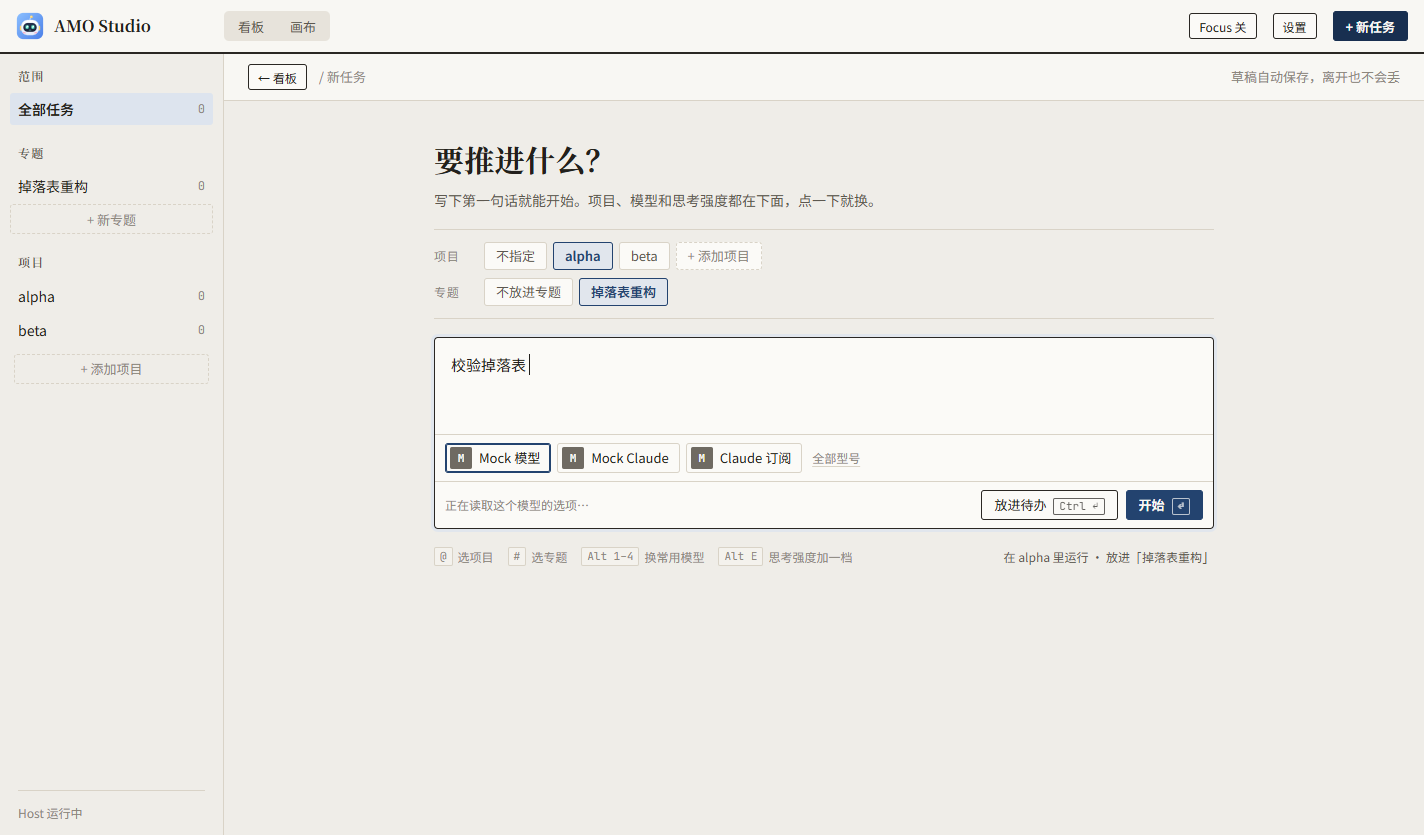
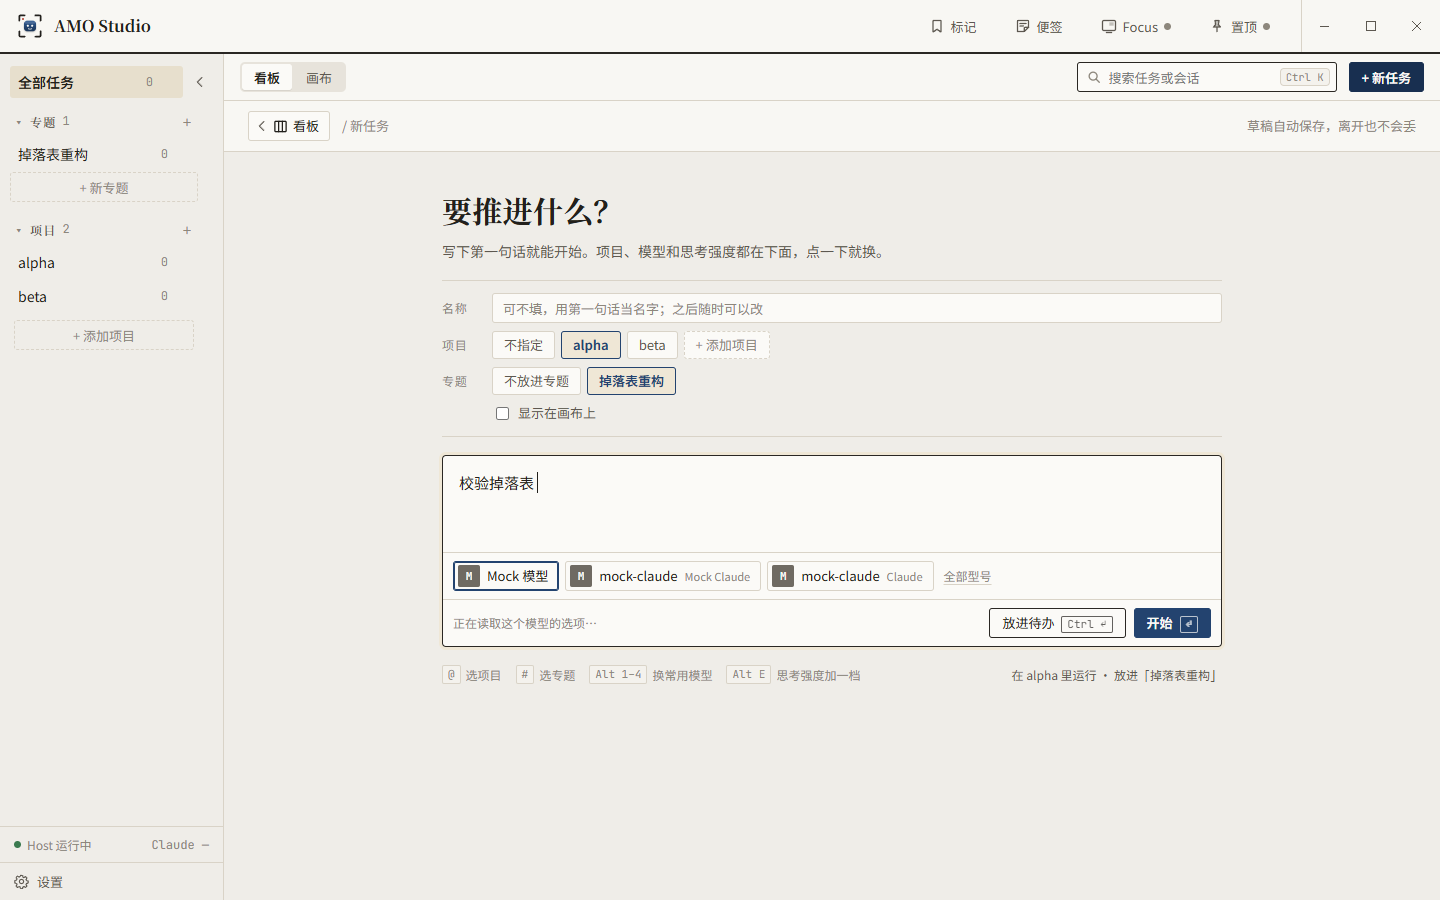
feat(studio): 快速选择 — choose the model tiles in settings; tiles name the default model; faint dividers between quota accounts

diff --git a/studio/packages/ui/src/settings/QuickModelsSection.tsx b/studio/packages/ui/src/settings/QuickModelsSection.tsx
@@ -1,0 +1,122 @@
+import { useEffect, useState } from "react";
+import { MAX_QUICK_MODELS, type ModelProfile, type QuickModel, type StudioSettings } from "@amo-studio/protocol";
+import { call, HostApiError, type HostLink } from "../host/client.js";
+import { modelName, useChoicesFor } from "../lib/choices.js";
+import { pickable } from "../lib/profiles.js";
+import { Mark } from "../chat/pickers.js";
+
+// 设置 → 模型 → 快速选择 (2026-10-15): the model tiles of the new-task page, Quick Start and the new-session form —
+// which ones, in which order (Alt 1–6). Without a choice the row shows the models used last.
+
+export function QuickModelsSection({ link, settings, profiles }: { link: HostLink; settings: StudioSettings | null; profiles: readonly ModelProfile[] }) {
+  const list = settings?.quickModels ?? [];
+  const visible = pickable(profiles);
+  const [profileId, setProfileId] = useState("");
+  const [model, setModel] = useState("");
+  const [error, setError] = useState<string | null>(null);
+  useEffect(() => {
+    if (!profileId && visible[0]) setProfileId(visible[0].id);
+  }, [profileId, visible]);
+  const choices = useChoicesFor(link, [...new Set([...list.map((q) => q.profileId), ...(profileId ? [profileId] : [])])]);
+  const profile = (id: string) => profiles.find((p) => p.id === id);
+  const nameOf = (q: QuickModel) => {
+    const models = choices.get(q.profileId)?.models;
+    if (q.model) return modelName(models?.find((m) => m.id === q.model)) ?? q.model;
+    const d = modelName(models?.find((m) => m.isDefault));
+    return d ? `默认（${d}）` : "默认";
+  };
+
+  async function save(next: QuickModel[]) {
+    setError(null);
+    try {
+      await call(link, "PUT /api/settings", {}, { quickModels: next });
+    } catch (err) {
+      setError(err instanceof HostApiError ? err.message : String(err));
+    }
+  }
+  const move = (i: number, d: -1 | 1) => {
+    const next = [...list];
+    const [x] = next.splice(i, 1);
+    next.splice(i + d, 0, x!);
+    void save(next);
+  };
+  const add = () => {
+    const q = { profileId, model: model || null };
+    if (list.some((x) => x.profileId === q.profileId && x.model === q.model)) return setError("已经在里面了");
+    void save([...list, q]);
+    setModel("");
+  };
+
+  const models = choices.get(profileId)?.models ?? [];
+  return (
+    <section className="settings-section" aria-label="快速选择">
+      <div className="settings-row">
+        <span className="settings-heading">快速选择</span>
+        <span className="spacer" />
+        {list.length > 0 && (
+          <button type="button" className="btn-ghost small" onClick={() => void save([])} data-testid="quick-reset">
+            改回最近用过的
+          </button>
+        )}
+      </div>
+      <span className="settings-hint">
+        新建任务、快速开始和新会话里那一排模型按这里的顺序显示（Alt 1–{MAX_QUICK_MODELS}），最多 {MAX_QUICK_MODELS} 个。没设置时显示最近用过的。
+      </span>
+      {list.length > 0 && (
+        <ol className="quick-list" data-testid="quick-list">
+          {list.map((q, i) => (
+            <li key={`${q.profileId}/${q.model ?? ""}`} className="quick-row" data-testid="quick-row">
+              <span className="quick-key">Alt {i + 1}</span>
+              <Mark profile={profile(q.profileId)} small />
+              <span className="quick-name">
+                <b>{nameOf(q)}</b>
+                <span className="channel-sub">{profile(q.profileId)?.label ?? q.profileId}</span>
+              </span>
+              <button type="button" className="quick-btn" aria-label="上移" title="上移" disabled={i === 0} onClick={() => move(i, -1)}>
+                ↑
+              </button>
+              <button type="button" className="quick-btn" aria-label="下移" title="下移" disabled={i === list.length - 1} onClick={() => move(i, 1)}>
+                ↓
+              </button>
+              <button type="button" className="quick-btn" aria-label={`移除 ${nameOf(q)}`} title="移除" onClick={() => void save(list.filter((_, j) => j !== i))} data-testid="quick-remove">
+                ✕
+              </button>
+            </li>
+          ))}
+        </ol>
+      )}
+      {list.length < MAX_QUICK_MODELS && (
+        <div className="settings-row">
+          <select className="field" value={profileId} onChange={(e) => (setProfileId(e.target.value), setModel(""))} aria-label="快速选择的渠道" data-testid="quick-profile">
+            {visible.map((p) => (
+              <option key={p.id} value={p.id}>
+                {p.label}
+              </option>
+            ))}
+          </select>
+          <select className="field" value={model} onChange={(e) => setModel(e.target.value)} aria-label="快速选择的型号" data-testid="quick-model">
+            <option value="">默认{(() => {
+              const d = modelName(models.find((m) => m.isDefault));
+              return d ? `（${d}）` : "";
+            })()}</option>
+            {models
+              .filter((m) => !m.isDefault)
+              .map((m) => (
+                <option key={m.id} value={m.id}>
+                  {modelName(m) ?? m.id}
+                </option>
+              ))}
+          </select>
+          <button type="button" className="btn-primary small" disabled={!profileId} onClick={add} data-testid="quick-add">
+            添加
+          </button>
+        </div>
+      )}
+      {error && (
+        <span className="form-error" role="alert">
+          {error}
+        </span>
+      )}
+    </section>
+  );
+}

diff --git a/studio/packages/host/src/features/config/service.ts b/studio/packages/host/src/features/config/service.ts
@@ -1,11 +1,11 @@
 import { existsSync, mkdirSync, statSync } from "node:fs";
 import { resolve } from "node:path";
-import { OPTIONAL_FEATURES, type AccountUsage, type CredentialStatus, type OptionalFeature, type ProfileChoices, type SessionPreset, type Id, type QuotaDisplay, type StudioSettings } from "@amo-studio/protocol";
+import { MAX_QUICK_MODELS, OPTIONAL_FEATURES, type QuickModel, type AccountUsage, type CredentialStatus, type OptionalFeature, type ProfileChoices, type SessionPreset, type Id, type QuotaDisplay, type StudioSettings } from "@amo-studio/protocol";
 import { localClaudeHome, localClaudeSignedIn, readClaudeLogin, writeClaudeLogin } from "../../runtime/claude/claude-login.js";
 import { applyModelPrefs, readModelPrefs, writeModelPrefs } from "../../core/model-prefs.js";
 import { newId } from "../../store/store.js";
 import type { CredentialStore } from "../../runtime/credentials.js";
-import { HostError, sessionOptions, boundedText, PRESETS_KEY, MAX_PRESETS, WRITABLE_CREDENTIALS, DISABLED_FEATURES_KEY, QUOTA_DISPLAY_KEY } from "../../core/shared.js";
+import { HostError, sessionOptions, boundedText, PRESETS_KEY, MAX_PRESETS, WRITABLE_CREDENTIALS, DISABLED_FEATURES_KEY, QUOTA_DISPLAY_KEY, QUICK_MODELS_KEY } from "../../core/shared.js";
 import { Feature } from "../../core/feature.js";
 
 /** Studio settings, 常用预设, model credentials, model choices and subscription usage. */
@@ -22,7 +22,18 @@ export class ConfigFeature extends Feature {
       claudeLocal: { dir, signedIn: localClaudeSignedIn(dir) },
       modelPrefs: readModelPrefs(this.store),
       quotaDisplay: this.quotaDisplay(),
+      quickModels: this.quickModels(),
     };
+  }
+
+  /** 设置 → 模型 → 快速选择, without profiles that are gone. */
+  private quickModels(): QuickModel[] {
+    try {
+      const v = JSON.parse(this.store.getKv(QUICK_MODELS_KEY)?.value ?? "[]") as unknown;
+      return Array.isArray(v) ? (v as QuickModel[]).filter((q) => this.profiles.some((p) => p.id === q.profileId)) : [];
+    } catch {
+      return [];
+    }
   }
 
   /** 设置 → 额度: per profile, whether its quota shows at the bottom of the left column and in Focus. */
@@ -65,7 +76,21 @@ export class ConfigFeature extends Feature {
    * Moves the common space to another folder, replaces the 常用预设 list, turns optional features on or off, sets the
    * scratchpad shortcut (便签) and/or how the Claude subscription signs in (sessions started from then on).
    */
-  updateSettings(input: { commonDir?: unknown; presets?: unknown; disabledFeatures?: unknown; scratchpadShortcut?: unknown; claudeLogin?: unknown; modelPrefs?: unknown; scratchpadSafeNewlines?: unknown; quotaDisplay?: unknown }): StudioSettings {
+  updateSettings(input: { commonDir?: unknown; presets?: unknown; disabledFeatures?: unknown; scratchpadShortcut?: unknown; claudeLogin?: unknown; modelPrefs?: unknown; scratchpadSafeNewlines?: unknown; quotaDisplay?: unknown; quickModels?: unknown }): StudioSettings {
+    if (input.quickModels !== undefined) {
+      const list = input.quickModels;
+      if (!Array.isArray(list) || list.length > MAX_QUICK_MODELS) throw new HostError("bad_request", `quickModels must be a list of at most ${MAX_QUICK_MODELS}`);
+      const out: QuickModel[] = [];
+      for (const q of list as unknown[]) {
+        const o = q && typeof q === "object" ? (q as Record<string, unknown>) : {};
+        const profileId = typeof o.profileId === "string" ? o.profileId : "";
+        if (!this.profiles.some((p) => p.id === profileId)) throw new HostError("bad_request", `unknown profile ${profileId}`);
+        const model = o.model === null || o.model === undefined || o.model === "" ? null : typeof o.model === "string" && o.model.length <= 100 ? o.model : undefined;
+        if (model === undefined) throw new HostError("bad_request", "quickModels entries are { profileId, model: string | null }");
+        if (!out.some((x) => x.profileId === profileId && x.model === model)) out.push({ profileId, model });
+      }
+      this.store.setKv(QUICK_MODELS_KEY, JSON.stringify(out));
+    }
     if (input.quotaDisplay !== undefined) {
       const patch = input.quotaDisplay;
       if (!patch || typeof patch !== "object" || Array.isArray(patch)) throw new HostError("bad_request", "quotaDisplay must map profile ids to { footer, focus } or null");

diff --git a/studio/e2e/tests/model-channels.spec.ts b/studio/e2e/tests/model-channels.spec.ts
@@ -113,3 +113,34 @@ test("设置 → 额度: which accounts show at the bottom of the left column an
   await page.keyboard.press("Escape");
   await expect(footer).not.toContainText("中转 GPT");
 });
+
+test("设置 → 模型 → 快速选择: the model tiles, in the chosen order", async () => {
+  studio = await launchStudio();
+  const { page, app } = studio;
+  await page.getByRole("button", { name: "设置" }).click();
+  const dialog = page.getByRole("dialog", { name: "设置" });
+  await dialog.getByRole("tab", { name: "模型" }).click();
+  const section = dialog.getByRole("region", { name: "快速选择" });
+  await section.getByTestId("quick-profile").selectOption({ label: "Mock Claude" });
+  await expect(section.getByTestId("quick-model").locator("option")).toHaveCount(2);
+  await section.getByTestId("quick-model").selectOption("mock-claude-b");
+  await section.getByTestId("quick-add").click();
+  await expect(section.getByTestId("quick-row")).toHaveCount(1);
+  await section.getByTestId("quick-profile").selectOption({ label: "Mock 模型" });
+  await section.getByTestId("quick-add").click();
+  await expect(section.getByTestId("quick-row")).toHaveCount(2);
+  await expect(section.getByTestId("quick-row").first()).toContainText("mock-claude-b");
+  await section.getByRole("button", { name: "上移" }).nth(1).click();
+  await expect(section.getByTestId("quick-row").first()).toContainText("Mock 模型");
+  await screenshot(app, "stage-14", "S14-L-quick-models", page);
+  const settings = await studio.api<StudioSettings>("GET", "/api/settings");
+  expect(settings.quickModels).toEqual([{ profileId: "codex-mock", model: null }, { profileId: "claude-mock", model: "mock-claude-b" }]);
+  await page.keyboard.press("Escape");
+
+  // The new-task page shows just those two, in that order; a tile without a model names the default model.
+  await page.getByRole("button", { name: "+ 新任务" }).click();
+  const tiles = page.getByRole("group", { name: "模型" }).getByRole("button").filter({ hasNotText: "全部型号" });
+  await expect(tiles).toHaveCount(2);
+  await expect(tiles.nth(0)).toContainText("Mock 模型");
+  await expect(tiles.nth(1)).toContainText("mock-claude-b");
+});

diff --git a/studio/packages/protocol/src/api.ts b/studio/packages/protocol/src/api.ts
@@ -176,7 +176,20 @@ export interface StudioSettings {
   modelPrefs: Record<string, ModelPrefs>;
   /** Per profile id: where its quota (subscription use or balance) shows (设置 → 额度); absent = the defaults. */
   quotaDisplay: Record<string, QuotaDisplay>;
+  /**
+   * 快速选择 (设置 → 模型): the model tiles of the new-task page, Quick Start and the new-session form, in order (Alt 1–6).
+   * Empty: the models used last, then each profile's default.
+   */
+  quickModels: QuickModel[];
 }
+
+/** A profile and one of its models (null: the profile's default model). */
+export interface QuickModel {
+  profileId: Id;
+  model: string | null;
+}
+
+export const MAX_QUICK_MODELS = 6;
 
 /** Where one account's quota shows: the bottom of the left column (default on) and the Focus window (default off). */
 export interface QuotaDisplay {
@@ -221,7 +234,7 @@ export interface HostRoutes {
   "POST /api/attachments": { req: void; res: Attachment };
   /** The file itself; also accepts `?token=` so an <img> can load it. */
   "GET /api/attachments/:id": { req: void; res: Blob };
-  "PUT /api/settings": { req: { commonDir?: string; presets?: SessionPreset[]; disabledFeatures?: OptionalFeature[]; scratchpadShortcut?: string; claudeLogin?: ClaudeLogin; modelPrefs?: Record<string, ModelPrefs | null>; scratchpadSafeNewlines?: boolean; quotaDisplay?: Record<string, QuotaDisplay | null> }; res: StudioSettings };
+  "PUT /api/settings": { req: { commonDir?: string; presets?: SessionPreset[]; disabledFeatures?: OptionalFeature[]; scratchpadShortcut?: string; claudeLogin?: ClaudeLogin; modelPrefs?: Record<string, ModelPrefs | null>; scratchpadSafeNewlines?: boolean; quotaDisplay?: Record<string, QuotaDisplay | null>; quickModels?: QuickModel[] }; res: StudioSettings };
   /** Models (with reasoning efforts) and permission settings of a profile, asked from its CLI. */
   "GET /api/profiles/:id/choices": { req: void; res: ProfileChoices };
   "GET /api/credentials": { req: void; res: CredentialStatus[] };

diff --git a/studio/packages/ui/src/newtask/ModelRow.tsx b/studio/packages/ui/src/newtask/ModelRow.tsx
@@ -2,12 +2,12 @@ import { useState } from "react";
 import type { ModelProfile } from "@amo-studio/protocol";
 import type { HostLink } from "../host/client.js";
 import { useChoicesFor } from "../lib/choices.js";
-import { commonPicks, samePick, type ModelPick } from "../lib/recents.js";
+import { commonPicks, samePick, tileCount, type ModelPick } from "../lib/recents.js";
 import { pickable } from "../lib/profiles.js";
 import { Mark, ModelMenu, ModelTile, pickLabel } from "../chat/pickers.js";
 
 /** The 常用 tiles: recent picks first; the current pick always among them. */
-export function tilePicks(profiles: readonly ModelProfile[], current: ModelPick, count = 4): ModelPick[] {
+export function tilePicks(profiles: readonly ModelProfile[], current: ModelPick, count = tileCount()): ModelPick[] {
   const picks = commonPicks(pickable(profiles, current.profileId), count);
   if (current.profileId && !picks.some((p) => samePick(p, current))) picks.splice(Math.max(picks.length - 1, 0), 1, current);
   return picks;
@@ -35,7 +35,8 @@ export function ModelRow({
   const [menu, setMenu] = useState<{ x: number; y: number; profileId: string } | null>(null);
   // Model names for tiles that name a model, every model when the drawer is open, and the right-clicked account's.
   const choices = useChoicesFor(link, [
-    ...(drawer ? pickable(profiles, pick.profileId).map((p) => p.id) : tiles.filter((t) => t.model).map((t) => t.profileId)),
+    // Every tile's profile: a tile without a model shows the profile's default model by name.
+    ...(drawer ? pickable(profiles, pick.profileId).map((p) => p.id) : tiles.map((t) => t.profileId)),
     ...(menu ? [menu.profileId] : []),
   ]);
   const profile = (id: string) => profiles.find((p) => p.id === id);

diff --git a/studio/packages/ui/src/lib/recents.ts b/studio/packages/ui/src/lib/recents.ts
@@ -33,9 +33,22 @@ export function rememberPick(pick: ModelPick): void {
   }
 }
 
-/** Up to `count` tiles: recent picks of profiles that still exist, then the profiles' defaults. */
-export function commonPicks(profiles: readonly ModelProfile[], count = 4): ModelPick[] {
+/**
+ * 设置 → 模型 → 快速选择: the tiles the person chose, in order (kept here so the keyboard handlers can read them; the
+ * main window sets them from its settings on every render). Empty: recent picks, then each profile's default.
+ */
+let quick: readonly ModelPick[] = [];
+export function setQuickModels(list: readonly ModelPick[] | undefined): void {
+  quick = list ?? [];
+}
+/** How many tiles the row shows: the chosen ones, else four. */
+export const tileCount = () => (quick.length ? quick.length : 4);
+
+/** Up to `count` tiles: the chosen 快速选择 if any, else recent picks of profiles that still exist, then the profiles' defaults. */
+export function commonPicks(profiles: readonly ModelProfile[], count = tileCount()): ModelPick[] {
   const known = new Set(profiles.map((p) => p.id));
+  const chosen = quick.filter((p) => known.has(p.profileId));
+  if (chosen.length) return chosen.slice(0, count).map((p) => ({ profileId: p.profileId, model: p.model }));
   const out: ModelPick[] = [];
   const add = (p: ModelPick) => {
     if (out.length < count && known.has(p.profileId) && !out.some((x) => samePick(x, p))) out.push(p);

diff --git a/studio/packages/ui/src/settings/settings.css b/studio/packages/ui/src/settings/settings.css
@@ -130,6 +130,17 @@
 
 /* 设置 → 额度 */
 .quota-list { display: flex; flex-direction: column; }
-.quota-row { display: flex; align-items: center; gap: 10px; padding: 8px 0; border-bottom: 1px solid var(--border); }
+.quota-row { display: flex; align-items: center; gap: 10px; padding: 10px 0; border-bottom: 1px solid color-mix(in srgb, var(--border) 60%, transparent); }
 .quota-row:last-child { border-bottom: 0; }
 .quota-name { display: flex; flex-direction: column; flex: 1; min-width: 0; }
+
+/* 设置 → 模型 → 快速选择 */
+.quick-list { list-style: none; margin: 0; padding: 0; display: flex; flex-direction: column; }
+.quick-row { display: flex; align-items: center; gap: 8px; padding: 6px 0; border-bottom: 1px solid color-mix(in srgb, var(--border) 60%, transparent); }
+.quick-row:last-child { border-bottom: 0; }
+.quick-key { width: 40px; flex: none; font-family: var(--font-code); font-size: 11.5px; color: var(--text-dim); }
+.quick-name { display: flex; flex-direction: column; flex: 1; min-width: 0; }
+.quick-name b { font-weight: 600; }
+.quick-row .quick-btn { width: 26px; height: 26px; border: 1px solid transparent; border-radius: 6px; background: transparent; color: var(--text-dim); cursor: pointer; }
+.quick-row .quick-btn:hover:not(:disabled) { border-color: var(--border); color: var(--text); }
+.quick-row .quick-btn:disabled { opacity: 0.35; cursor: default; }

diff --git a/studio/packages/ui/src/settings/ModelsPage.tsx b/studio/packages/ui/src/settings/ModelsPage.tsx
@@ -6,6 +6,7 @@ import { CredentialMessage, CredentialRow, useCredentials, type SettingsMessage 
 import { PresetsSection } from "./PresetsSection.js";
 import { ModelDefaultsSection } from "./ModelDefaultsSection.js";
 import { ChannelsSection } from "./ChannelsSection.js";
+import { QuickModelsSection } from "./QuickModelsSection.js";
 import { useProfiles } from "../lib/balance.js";
 
 // 设置 → 模型: the channels (built-in and the person's own third-party Claude and Codex endpoints, each one hideable
@@ -29,6 +30,7 @@ export function ModelsPage({ link, settings }: { link: HostLink; settings: Studi
           extra={claude && settings && claudeProfile ? { [claudeProfile.id]: <ClaudeLoginSection link={link} settings={settings} credential={claude} onCredentials={setList} /> } : undefined}
         />
       )}
+      {profiles && <QuickModelsSection link={link} settings={settings} profiles={profiles} />}
       <ModelDefaultsSection link={link} settings={settings} />
       <PresetsSection link={link} presets={settings?.presets ?? []} />
     </>

diff --git a/studio/packages/ui/src/App.tsx b/studio/packages/ui/src/App.tsx
@@ -10,6 +10,7 @@ import { useChecklist } from "./collab/ChecklistPanel.js";
 import { usePendingProposals } from "./planning/ProposalsPanel.js";
 import { useTodos } from "./planning/TodoTab.js";
 import { SettingsDialog, useSettings } from "./settings/SettingsDialog.js";
+import { setQuickModels } from "./lib/recents.js";
 import { TopBar, useFocusToggle, usePinToggle, ViewBar } from "./shell/TopBar.js";
 import { withOrigin, type View, type ViewContext, type ViewDef } from "./shell/views.js";
 import { SearchBox } from "./shell/SearchBox.js";
@@ -86,6 +87,8 @@ export function App() {
 
   const { state, link, live } = host;
   const disabled = settings?.disabledFeatures ?? [];
+  // 设置 → 模型 → 快速选择, for every model row of this window.
+  setQuickModels(settings?.quickModels);
   const views = VIEWS.filter((d) => featureOn(disabled, d.feature));
   const planning = featureOn(disabled, "planning");
   const decisionsByTask = new Map<string, number>();

diff --git a/studio/packages/ui/src/chat/pickers.tsx b/studio/packages/ui/src/chat/pickers.tsx
@@ -27,7 +27,11 @@ export function Mark({ profile, small = false }: { profile: ModelProfile | undef
 /** What a tile says: the model's name when one is picked (its account below), else the profile's own name. */
 export function pickLabel(profile: ModelProfile | undefined, model: string | null, models?: readonly ModelOption[]): { main: string; sub: string | null } {
   if (!profile) return { main: "未知模型", sub: null };
-  if (!model) return { main: profile.label, sub: null };
+  if (!model) {
+    // The profile's default, by name when its list is known ("Opus" over "Claude"), so two tiles of one account differ.
+    const name = modelName(models?.find((m) => m.isDefault));
+    return name ? { main: name, sub: profile.label } : { main: profile.label, sub: null };
+  }
   return { main: modelName(models?.find((m) => m.id === model)) ?? model, sub: profile.label };
 }
 

diff --git a/studio/packages/ui/src/board/nav.css b/studio/packages/ui/src/board/nav.css
@@ -37,6 +37,9 @@
 .usage-peaks .hot, .usage-bar .hot { color: var(--error-text); }
 .usage-list { display: flex; flex-direction: column; gap: 10px; padding: 12px 14px 4px; max-height: 50vh; overflow-y: auto; }
 .usage-acct { display: flex; flex-direction: column; gap: 6px; }
+/* A faint line between accounts (2026-10-15: they ran together). */
+.usage-acct + .usage-acct { padding-top: 10px; border-top: 1px solid color-mix(in srgb, var(--border) 60%, transparent); }
+.usage-acct-h b { font-weight: 600; color: var(--text); }
 .usage-acct-h { display: flex; align-items: baseline; gap: 8px; font-size: var(--fs-sm); }
 .usage-win { display: flex; flex-direction: column; gap: 3px; }
 .usage-win-line { display: flex; align-items: center; gap: 8px; font-size: var(--fs-cap); color: var(--text-dim); }

diff --git a/studio/packages/ui/src/newtask/NewTaskPage.tsx b/studio/packages/ui/src/newtask/NewTaskPage.tsx
@@ -116,11 +116,11 @@ export function NewTaskPage({ link, workspaces, topics, tasks, profiles, scope, 
     }
   }
 
-  // Alt 1–4: the 常用 tiles; Alt E: one effort up.
+  // Alt 1–6: the 常用 tiles; Alt E: one effort up.
   useEffect(() => {
     const onKey = (e: KeyboardEvent) => {
       if (!e.altKey || e.ctrlKey) return;
-      if (/^[1-4]$/.test(e.key)) {
+      if (/^[1-6]$/.test(e.key)) {
         const t = tilePicks(profiles, draft.pick)[Number(e.key) - 1];
         if (t) {
           e.preventDefault();
